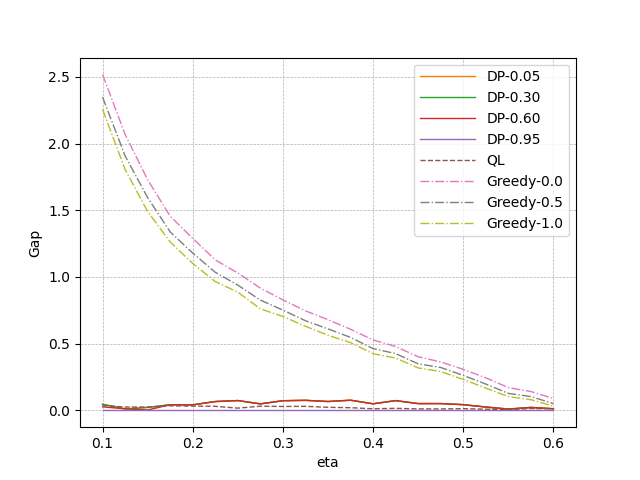
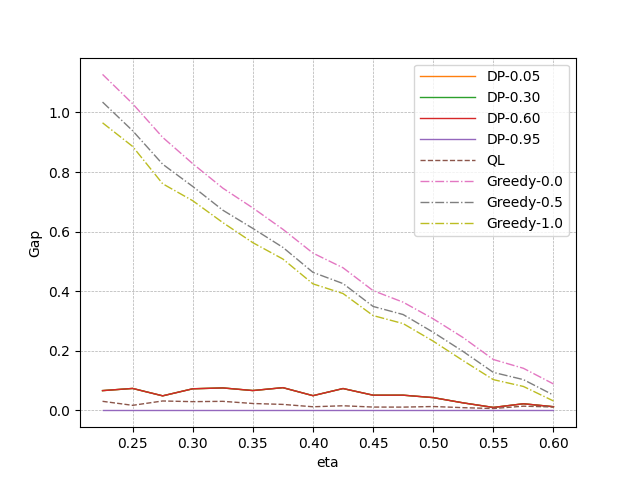
updated heter result

diff --git a/Single-Provider-Federation/v1.6-no-constraint-no-debug/PI-Gr-QL/check-heter/res_300/sim.py b/Single-Provider-Federation/v1.6-no-constraint-no-debug/PI-Gr-QL/check-heter/res_300/sim.py
@@ -1,0 +1,117 @@
+#!/usr/bin/python3
+
+import numpy as np
+import math
+from collections import defaultdict
+import sys
+import QL
+import heapq
+import itertools 
+import matplotlib 
+import matplotlib.style 
+import Environment
+import parser
+import DP
+from tester import greedy_result, mdp_policy_result
+from Environment import debug, error, warning
+
+
+if __name__ == "__main__":
+
+    sim_time = 100
+    #episode_num = 200
+
+    parser.parse_config("config.json")
+
+    init_size = 0.1
+    step = 0.025
+    scale = 20
+
+    iterations = 20
+    
+    i = 0
+
+    while i <= scale:
+        m = init_size + i * step
+        Environment.traffic_loads[1].lam = Environment.traffic_loads[0].lam
+        Environment.traffic_loads[1].mu = Environment.traffic_loads[0].mu * m
+        Environment.domain.services[1].cpu = int(Environment.domain.services[0].cpu / m)
+        Environment.domain.services[1].revenue = int(Environment.domain.services[0].revenue * m)
+        Environment.providers[0].federation_costs[Environment.domain.services[1]] = int(Environment.providers[0].federation_costs[Environment.domain.services[0]] / m)
+
+
+        Environment.domain.total_cpu = int(0.4 * (((Environment.traffic_loads[0].lam / Environment.traffic_loads[0].mu) * Environment.domain.services[0].cpu) + ((Environment.traffic_loads[1].lam / Environment.traffic_loads[1].mu) * Environment.domain.services[1].cpu)))
+        print("Environment.domain.total_cpu = ", Environment.domain.total_cpu)
+        episode_num = 300 * (int (Environment.domain.total_cpu / 100) + 1)
+
+        i += 1
+
+        dp_policy_05 = DP.policy_iteration(0.005)
+        dp_policy_30 = DP.policy_iteration(0.300)
+        dp_policy_60 = DP.policy_iteration(0.600)
+        dp_policy_95 = DP.policy_iteration(0.995)
+    
+        greedy_profit_00 = greedy_profit_50 = greedy_profit_100 = dp_profit_05 = dp_profit_30 = dp_profit_60 = dp_profit_95 = ql_profit = 0
+        greedy_accept_00 = greedy_accept_50 = greedy_accept_100 = dp_accept_05 = dp_accept_30 = dp_accept_60 = dp_accept_95 = ql_accept = 0
+        greedy_federate_00 = greedy_federate_50 = greedy_federate_100 = dp_federate_05 = dp_federate_30 = dp_federate_60 = dp_federate_95 = ql_federate = 0
+
+        
+        for j in range(iterations):
+            env = Environment.Env(Environment.domain.total_cpu, sim_time)
+            ql_policy = QL.qLearning(env, episode_num, 1)
+            
+            demands = Environment.generate_req_set(5 * sim_time)
+            Environment.print_reqs(demands)
+
+            greedy_profit_00, greedy_accept_00, greedy_federate_00 = greedy_result(demands, 0.0, greedy_profit_00, greedy_accept_00, greedy_federate_00)
+            greedy_profit_50, greedy_accept_50, greedy_federate_50 = greedy_result(demands, 0.5, greedy_profit_50, greedy_accept_50, greedy_federate_50)
+            greedy_profit_100, greedy_accept_100, greedy_federate_100 = greedy_result(demands, 1.0, greedy_profit_100, greedy_accept_100, greedy_federate_100)
+
+            
+            dp_profit_05, dp_accept_05, dp_federate_05 = mdp_policy_result(demands, dp_policy_05, dp_profit_05, dp_accept_05, dp_federate_05)
+            dp_profit_30, dp_accept_30, dp_federate_30 = mdp_policy_result(demands, dp_policy_30, dp_profit_30, dp_accept_30, dp_federate_30)
+            dp_profit_60, dp_accept_60, dp_federate_60 = mdp_policy_result(demands, dp_policy_60, dp_profit_60, dp_accept_60, dp_federate_60)
+            dp_profit_95, dp_accept_95, dp_federate_95 = mdp_policy_result(demands, dp_policy_95, dp_profit_95, dp_accept_95, dp_federate_95)
+            
+            ql_profit, ql_accept, ql_federate = mdp_policy_result(demands, ql_policy, ql_profit, ql_accept, ql_federate)
+
+
+        print("Multiplier_Profit = ", m)
+        #print("Capacity_Profit = ", Environment.domain.total_cpu)
+        print("Greedy Profit 00  = ", greedy_profit_00 / iterations)
+        print("Greedy Profit 50  = ", greedy_profit_50 / iterations)
+        print("Greedy Profit 100 = ", greedy_profit_100 / iterations)
+        print("DP_05 Profit = ", dp_profit_05 / iterations)
+        print("DP_30 Profit = ", dp_profit_30 / iterations)
+        print("DP_60 Profit = ", dp_profit_60 / iterations)
+        print("DP_95 Profit = ", dp_profit_95 / iterations)
+        print("QL Profit = ", ql_profit / iterations)
+        print("", flush=True)
+
+
+        print("Multiplier_Accept = ", m)
+        #print("Capacity_Accept = ", Environment.domain.total_cpu)
+        print("Greedy Accept 00  = ", greedy_accept_00 / iterations)
+        print("Greedy Accept 50  = ", greedy_accept_50 / iterations)
+        print("Greedy Accept 100 = ", greedy_accept_100 / iterations)
+        print("DP_05 Accept = ", dp_accept_05 / iterations)
+        print("DP_30 Accept = ", dp_accept_30 / iterations)
+        print("DP_60 Accept = ", dp_accept_60 / iterations)
+        print("DP_95 Accept = ", dp_accept_95 / iterations)
+        print("QL Accept    = ", ql_accept / iterations)
+        print("", flush=True)
+
+
+        print("Multiplier_Federate = ", m)
+        print("Greedy Federate 00  = ", greedy_federate_00 / iterations)
+        print("Greedy Federate 50  = ", greedy_federate_50 / iterations)
+        print("Greedy Federate 100 = ", greedy_federate_100 / iterations)
+        print("DP_05 Federate = ", dp_federate_05 / iterations)
+        print("DP_30 Federate = ", dp_federate_30 / iterations)
+        print("DP_60 Federate = ", dp_federate_60 / iterations)
+        print("DP_95 Federate = ", dp_federate_95 / iterations)
+        print("QL Federate    = ", ql_federate / iterations)
+        print("", flush=True)
+
+
+print("DONE !!!!")
